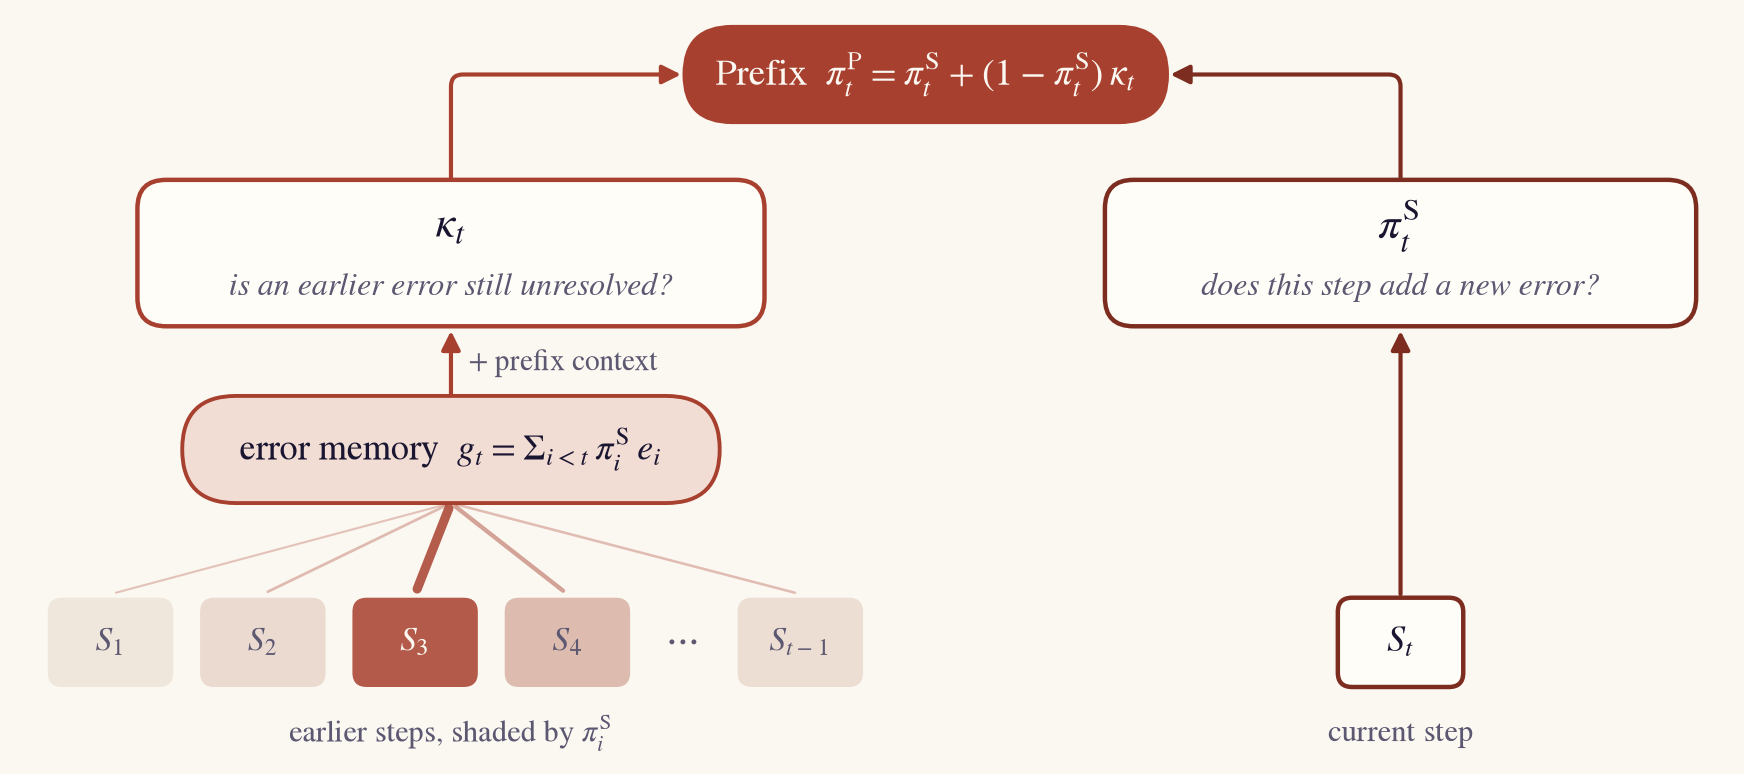
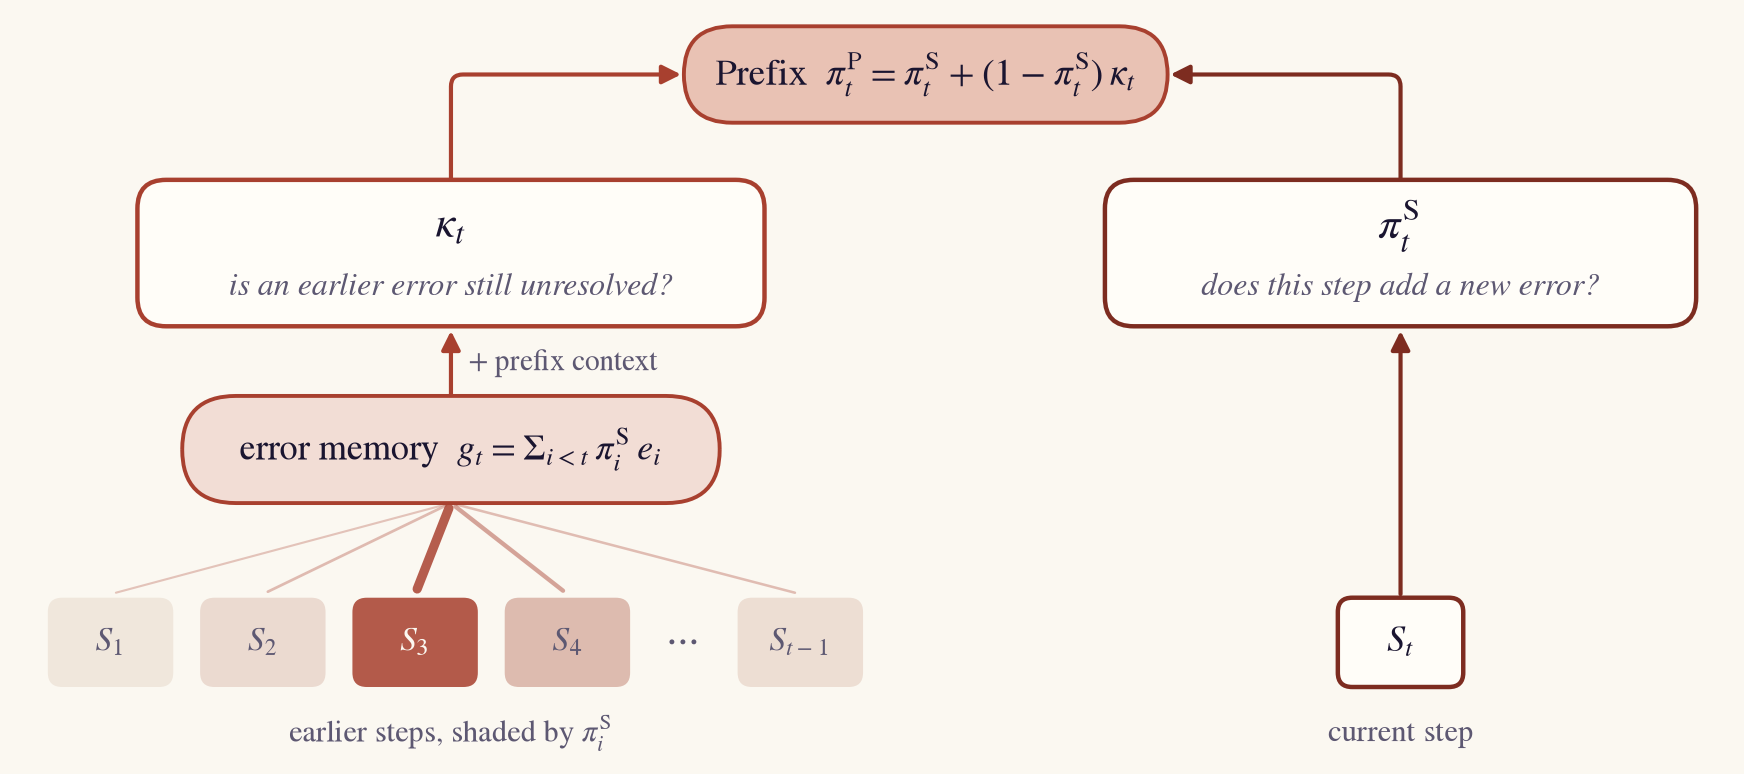
weekly: add finding and limitation to the 2026-11-18 results
Title the recovery chart Prefix Recovery TEST AUROC, drop the axis notes,
lighten the Prefix box in the A2 schematic, and state that the error memory
helps recovery while joint-model Step AUROC still trails the best baseline on
Logic and only two domains are covered.

Changed region(s): [[0.3716, 0.031, 0.6812, 0.155]]

diff --git a/weekly/scripts/2026-11-18_a2.py b/weekly/scripts/2026-11-18_a2.py
@@ -75,7 +75,6 @@ def results():
     for ax, (title, values, best_name, (lo, hi)) in zip(axes, panels):
         bars(ax, x, values, lo, hi, best_name, domains)
         ax.set_title(f"{title} TEST AUROC", fontsize=13, color=INK, pad=8)
-    axes[0].set_ylabel("axis does not start at 0", color=INK2, fontsize=10.5)
     handles, labels = axes[0].get_legend_handles_labels()
     fig.legend(handles, labels, ncol=4, frameon=False, loc="upper center", bbox_to_anchor=(0.5, 1.07), labelcolor=INK)
     fig.tight_layout()
@@ -87,7 +86,7 @@ def recovery():
     values = [[0.7020, 0.7205], [0.7020, 0.7233], [0.7073, 0.6895], [0.7204, 0.7476]]
     fig, ax = plt.subplots(figsize=(10.0, 3.6), dpi=200)
     bars(ax, x, values, 0.65, 0.76, ["Streaming", "Global Mean"], domains)
-    ax.set_ylabel("pooled TEST AUROC (axis starts at 0.65)", color=INK2, fontsize=10.5)
+    ax.set_title("Prefix Recovery TEST AUROC", fontsize=13, color=INK, pad=8)
     fig.tight_layout(rect=(0, 0, 1, 0.88))
     handles, labels = ax.get_legend_handles_labels()
     fig.legend(handles, labels, ncol=4, frameon=False, loc="upper center", bbox_to_anchor=(0.53, 1.0), labelcolor=INK)

diff --git a/weekly/scripts/2026-11-18_dataset_a2.py b/weekly/scripts/2026-11-18_dataset_a2.py
@@ -126,9 +126,9 @@ def a2():
     arrow(ax, (xt, 0.94), (stp[0], stp[1] - 0.42), color=DEEP)
     # composition: arrows enter the two sides of the output box
     out_l, out_r, out_y = 3.95, 6.65, 3.85
-    ax.add_patch(FancyBboxPatch((out_l, out_y - 0.27), out_r - out_l, 0.54, boxstyle="round,pad=0,rounding_size=0.27", fc=ACCENT, ec=ACCENT))
+    ax.add_patch(FancyBboxPatch((out_l, out_y - 0.27), out_r - out_l, 0.54, boxstyle="round,pad=0,rounding_size=0.27", fc="#e9c2b4", ec=ACCENT, lw=1.4))
     ax.text((out_l + out_r) / 2, out_y, f"Prefix  $\\pi^{{\\mathrm{{P}}}}_t = {S}_t + (1-{S}_t)\\,\\kappa_t$", ha="center",
-            va="center", fontsize=13.5, color=SURFACE)
+            va="center", fontsize=13.5, color=INK)
     for (sx, color, ang) in ((kap[0], ACCENT, 0), (stp[0], DEEP, 180)):
         ax.add_patch(FancyArrowPatch((sx, 3.27), (out_l if ang == 0 else out_r, out_y), arrowstyle="-|>", mutation_scale=14,
                                      color=color, lw=1.5, shrinkA=0, shrinkB=1,

diff --git a/weekly/2026-11-18.md b/weekly/2026-11-18.md
@@ -66,6 +66,10 @@ Experiments are run on Qwen3.8-27B, in the Logic and Factuality domains.
 
 ![Pooled TEST AUROC between inherited positions (no new error, Prefix erroneous) and recovered positions (no new error, Prefix clean after an earlier error), ranked by the final Prefix score across trajectories.](assets/2026-11-18/a2_recovery.png)
 
+**Finding.** The error memory helps recovery: it raises the inherited-vs-recovered AUROC from 0.707 to 0.720 on Logic and from 0.690 to 0.748 on Factuality, above every baseline.
+
+**Limitation.** Under joint modelling, Step performance still trails the best baseline (0.877 vs 0.887 on Logic), and the framework has so far been run on only two domains.
+
 <!-- kicker: The **plan** -->
 ## §6 To do
 
